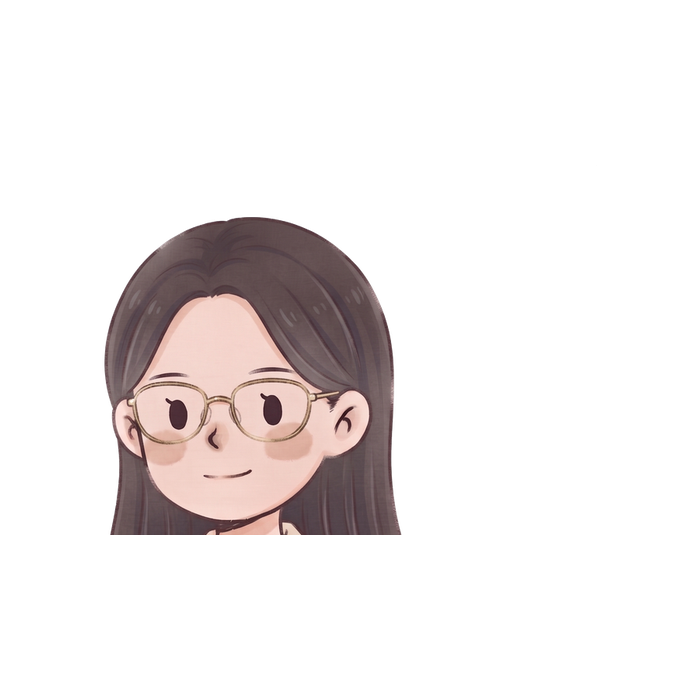
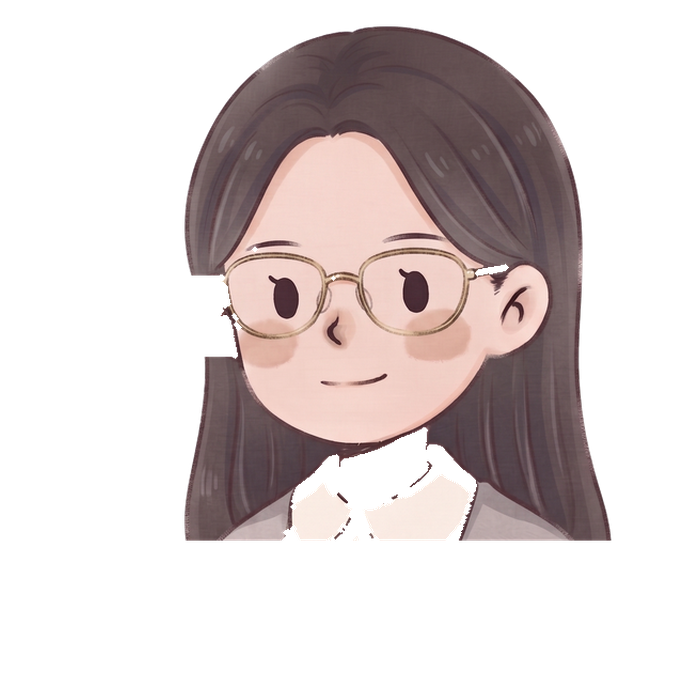
Replace the character head pictures.
The new crops are used as supplied, and the head image links use a new cache name.

diff --git a/game/clue-hunt/index.html b/game/clue-hunt/index.html
@@ -173,10 +173,10 @@
 <script>
 (function () {
   var portraits = {
-    evan: { bust: "after-school-club/art/players/evan.png?v=3", head: "after-school-club/art/players/heads/evan.png?v=5" },
-    lily: { bust: "after-school-club/art/players/lily.png?v=3", head: "after-school-club/art/players/heads/lily.png?v=5" },
-    ben: { bust: "after-school-club/art/players/ben.png?v=3", head: "after-school-club/art/players/heads/ben.png?v=5" },
-    hannah: { bust: "after-school-club/art/players/hannah.png?v=3", head: "after-school-club/art/players/heads/hannah.png?v=5" }
+    evan: { bust: "after-school-club/art/players/evan.png?v=3", head: "after-school-club/art/players/heads/evan.png?v=6" },
+    lily: { bust: "after-school-club/art/players/lily.png?v=3", head: "after-school-club/art/players/heads/lily.png?v=6" },
+    ben: { bust: "after-school-club/art/players/ben.png?v=3", head: "after-school-club/art/players/heads/ben.png?v=6" },
+    hannah: { bust: "after-school-club/art/players/hannah.png?v=3", head: "after-school-club/art/players/heads/hannah.png?v=6" }
   };
   var playerId = "";
   try {
@@ -306,7 +306,7 @@
       var portrait = portraits[playerId];
       person = { id: "you", name: "You", head: portrait.head, art: portrait.bust };
     } else if (person && person.head.indexOf("?") < 0) {
-      person = { id: person.id, name: person.name, head: person.head + "?v=5", art: person.art };
+      person = { id: person.id, name: person.name, head: person.head + "?v=6", art: person.art };
     }
     var row = document.createElement("div");
     row.className = "talk-line " + rowClass;

diff --git a/game/after-school-club/club.js b/game/after-school-club/club.js
@@ -3,10 +3,10 @@
 
   var KEY = 'asc-player-v1';
   var PLAYERS = {
-    evan: { name: 'Evan', src: 'art/players/heads/evan.png?v=5' },
-    lily: { name: 'Lily', src: 'art/players/heads/lily.png?v=5' },
-    ben: { name: 'Ben', src: 'art/players/heads/ben.png?v=5' },
-    hannah: { name: 'Hannah', src: 'art/players/heads/hannah.png?v=5' }
+    evan: { name: 'Evan', src: 'art/players/heads/evan.png?v=6' },
+    lily: { name: 'Lily', src: 'art/players/heads/lily.png?v=6' },
+    ben: { name: 'Ben', src: 'art/players/heads/ben.png?v=6' },
+    hannah: { name: 'Hannah', src: 'art/players/heads/hannah.png?v=6' }
   };
   var PLACES = { notice: true, hall: true };
 

diff --git a/game/after-school-club/index.html b/game/after-school-club/index.html
@@ -70,7 +70,7 @@
     <h2 class="sr-only">Campus map</h2>
     <div class="map-tools">
       <button type="button" class="who" id="change-character">
-        <img id="who-img" alt="" width="700" height="700" src="art/players/heads/evan.png?v=5"/>
+        <img id="who-img" alt="" width="700" height="700" src="art/players/heads/evan.png?v=6"/>
         <span><strong id="who-name">You</strong><small>Change character</small></span>
       </button>
     </div>
